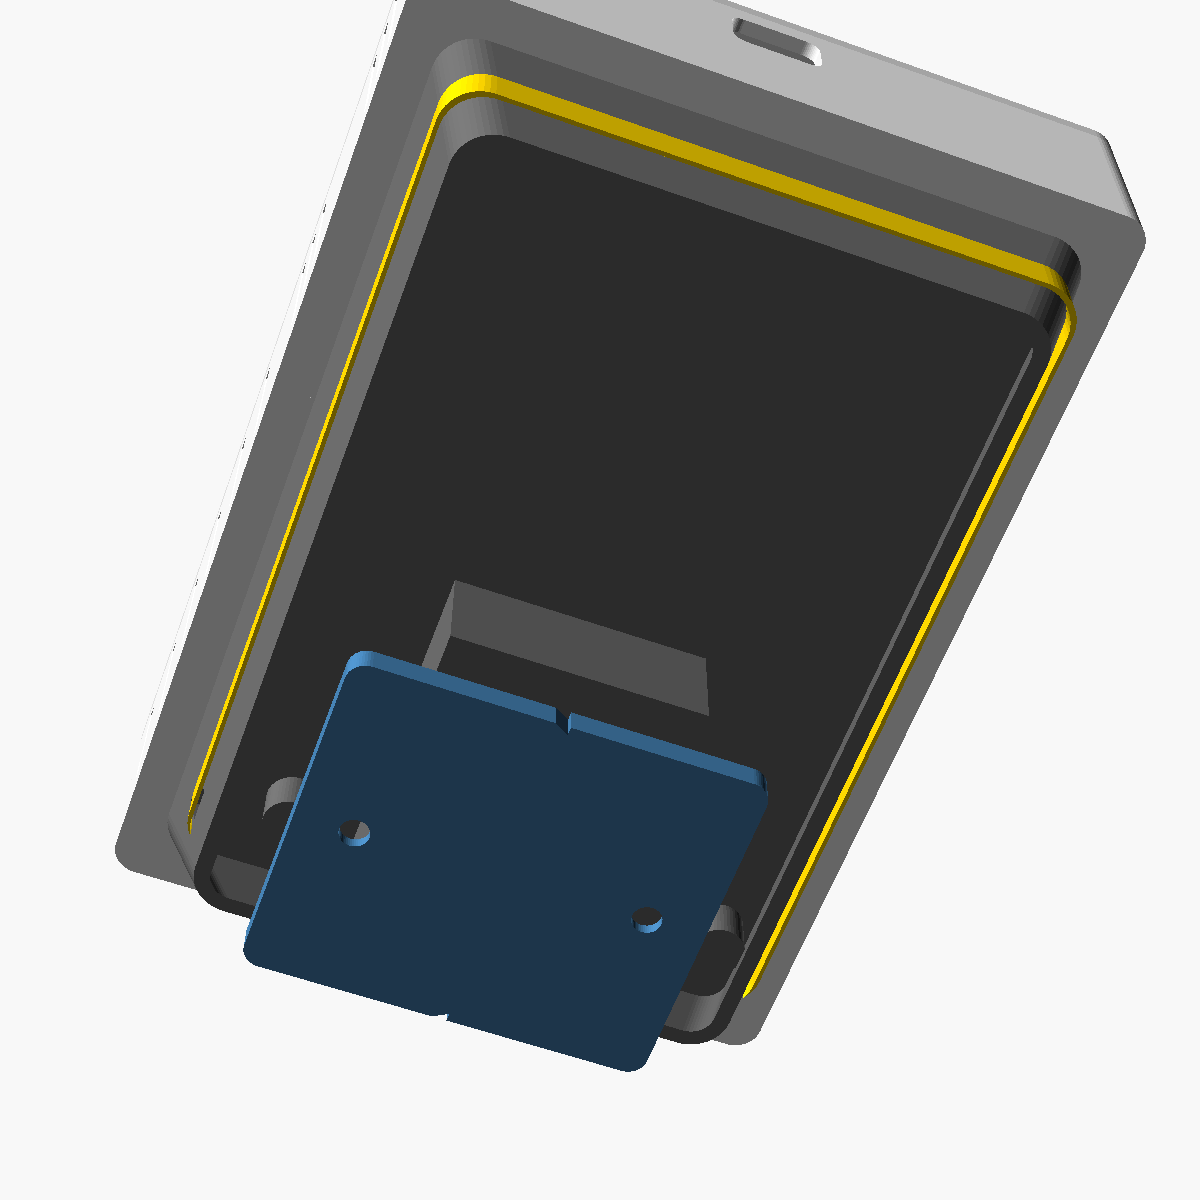
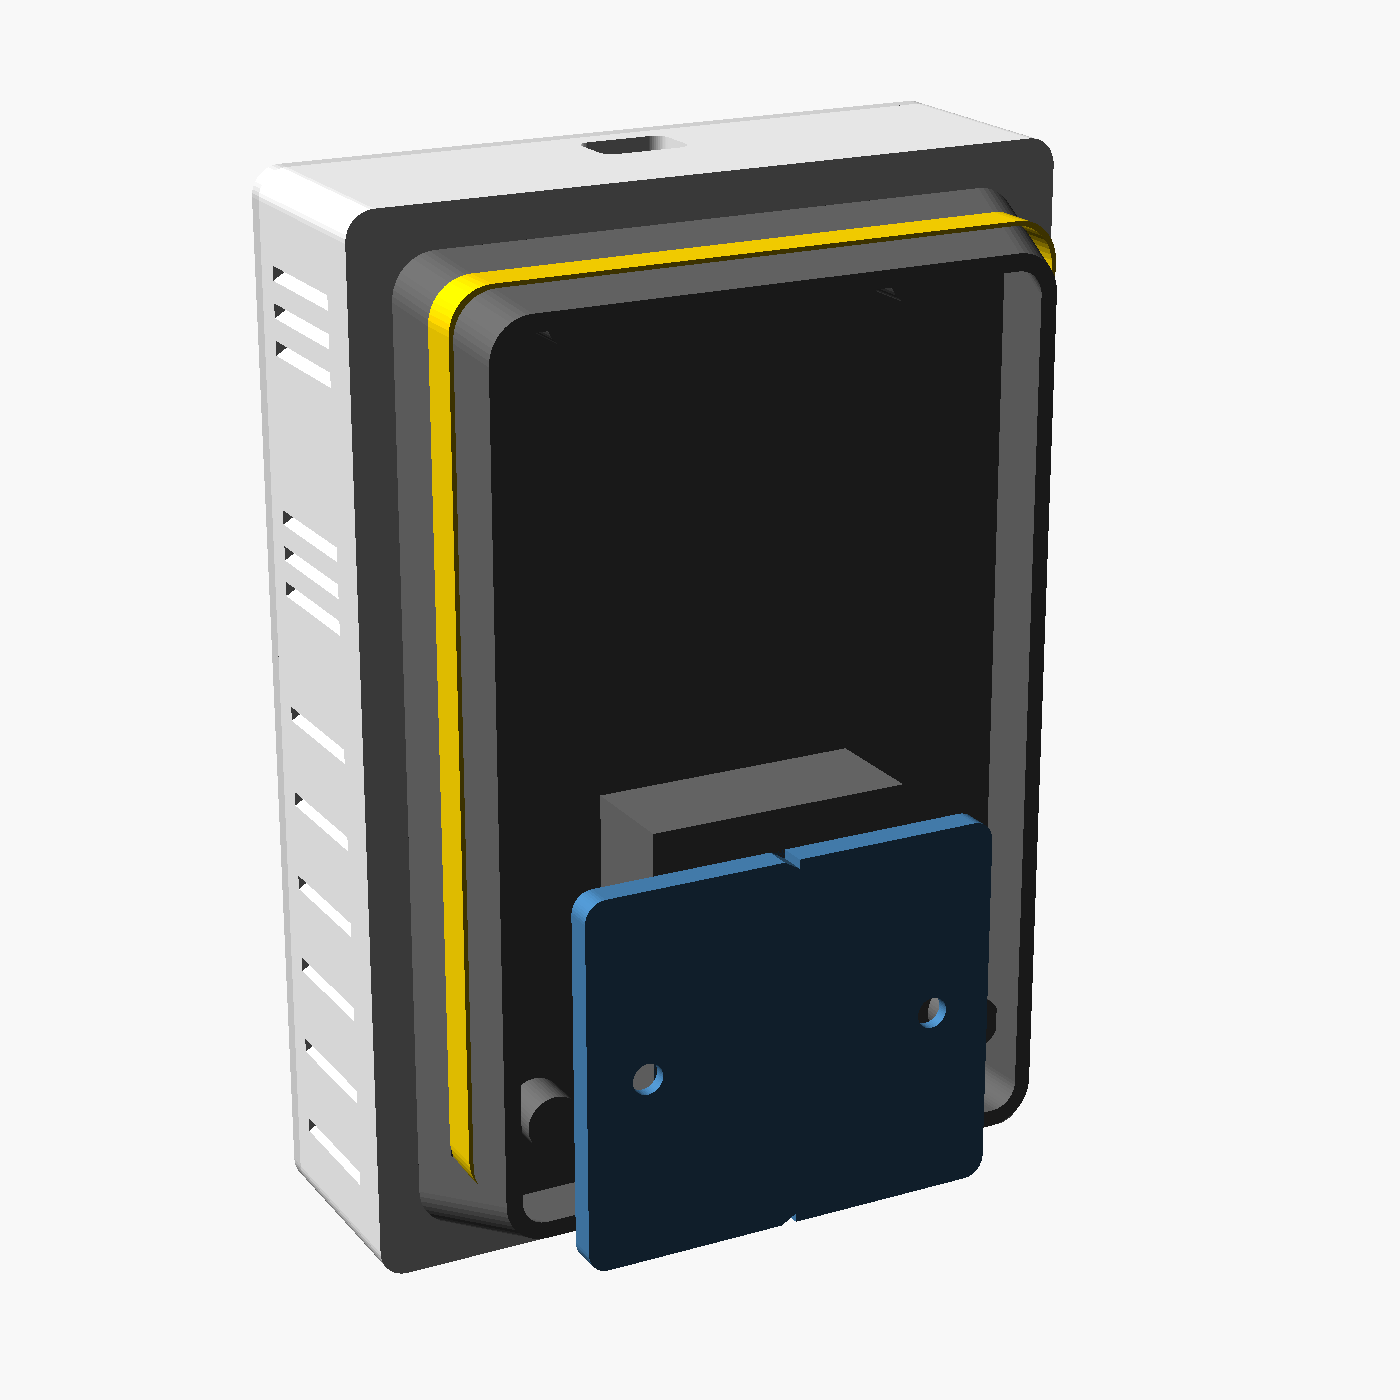
Boîtier : nouvelles vues 3D (avant, intérieur, éclatée, arrière)
Claude-Session: https://claude.ai/code/session_01AVvHhnXFs25zb42RfPZEei

diff --git a/README.md b/README.md
@@ -121,8 +121,12 @@ Leçons de la V1, à corriger en V2 : le GND du MH-Z19B n'était pas routé (fil
 Le boîtier (dossier [`boitier/`](boitier/)) sépare l'électronique en haut et le flux d'air du SDS011 en bas : le capteur aspire dans une chambre d'air frais où se trouve aussi le BME680, à l'écart de la chaleur de l'ESP32, et rejette l'air de l'autre côté. Il se glisse sur un rail en queue d'aronde, fixé au mur ou porté par un pied de table.
 
 <p align="center">
-  <img src="boitier/apercu/vue-table.png" width="300" alt="Boîtier sur son pied">
-  <img src="boitier/apercu/vue-interieur.png" width="300" alt="Boîtier, intérieur">
+  <img src="boitier/apercu/vue-avant.png" width="260" alt="Boîtier, vue avant">
+  <img src="boitier/apercu/vue-interieur.png" width="260" alt="Boîtier, intérieur avec les capteurs">
+  <img src="boitier/apercu/vue-table.png" width="260" alt="Boîtier sur son pied de table">
+</p>
+<p align="center">
+  <img src="boitier/apercu/vue-eclatee.png" width="520" alt="Vue éclatée : plaque murale, socle lumineux, corps, capot">
 </p>
 
 ## Organisation du dépôt
@@ -135,7 +139,7 @@ firmware/   Firmware ESP32 (C++, arduino-esp32 / ESP-IDF, build.sh)
   tools/      Intégration de l'appli dans le firmware (gzip -> assets.h)
 app/        Application web (PWA) servie par la station et par GitHub Pages
 android/    Appli Android (WebView native, build sans Android Studio)
-boitier/    Boîtier OpenSCAD paramétrique, STL et aperçus
+boitier/    Boîtier OpenSCAD paramétrique (mur ou table), STL et aperçus
 docs/       Guide d'utilisation complet et captures
 ```
 

diff --git a/boitier/LISEZMOI.md b/boitier/LISEZMOI.md
@@ -24,6 +24,8 @@ Encombrement : 104 × 148 mm de face, 31,5 mm d'épaisseur pour le boîtier avec
 
 ## 2. Comment le boîtier est organisé
 
+![Vue éclatée : plaque murale, socle et bande LED, corps avec les pièces en place, capot](apercu/vue-eclatee.png)
+
 ![Vue intérieure](apercu/vue-interieur.png)
 
 - **En haut, le compartiment électronique.** La carte est vissée sur 4 plots de 4 mm (vis M2 autotaraudeuses) contre le dos, son bord haut à 0,5 mm de la paroi. La fiche micro-USB passe par un trou de 13 × 9 mm dans la paroi du haut : comme le connecteur est 3,8 mm en retrait, la fiche s'enfonce d'environ 6 mm dans le trou. Un câble au bout moulé fin (moins de 11 × 7 mm) entre sans forcer. Des fentes sur les deux côtés et en haut du capot laissent sortir l'air chaud de l'ESP32.
@@ -48,6 +50,8 @@ Encombrement : 104 × 148 mm de face, 31,5 mm d'épaisseur pour le boîtier avec
 - **ça sonne creux** : c'est du gypse (placoplâtre). Prends 2 chevilles à gypse en plastique ou des chevilles métalliques à expansion (type Molly) pour vis de 4 mm. Si tu tombes sur un montant en bois (ça sonne plein à cet endroit), visse directement dedans avec des vis à bois 4 × 30 ;
 - **ça sonne plein et c'est dur** : béton ou brique. Perce au foret à béton de 6 mm et mets des chevilles en nylon de 6 mm avec des vis 4 × 30 ;
 - dans le doute, des chevilles universelles de 6 mm tiennent dans les deux cas.
+
+![Vue avant](apercu/vue-avant.png)
 
 ![Support](apercu/vue-support.png)
 
